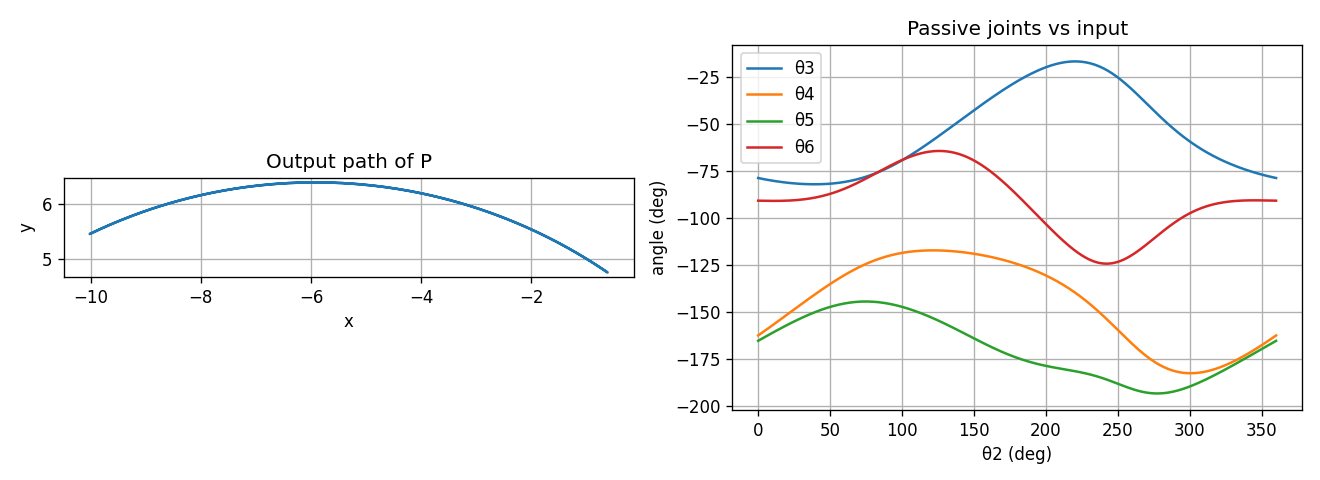
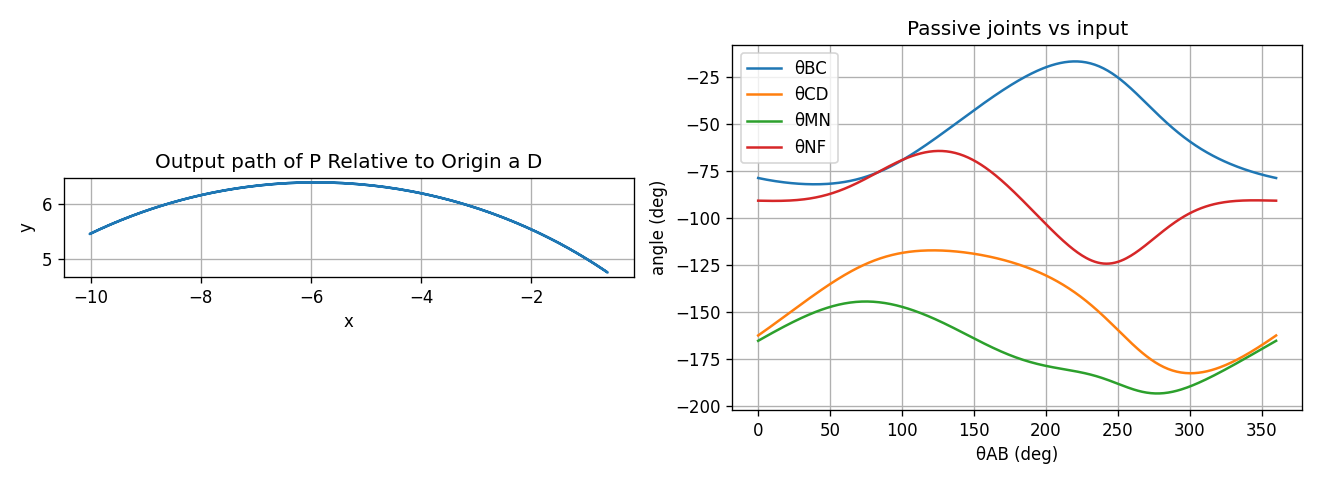
Updated figures

Changed region(s): [[0.1242, 0.3125, 0.4038, 0.375], [0.5902, 0.125, 0.6523, 0.3438], [0.7455, 0.9062, 0.8076, 0.9688]]

diff --git a/six-bar_one-dwell_IK.py b/six-bar_one-dwell_IK.py
@@ -93,60 +93,64 @@ def ik_from_P(P): #IK from an output point: convert P to th6, then solve
 
 #Main
 if __name__ == "__main__":
+    #The solver works in th6 internally; only inputs, prints and plots use th_FN.
+    to_FN = lambda t6_deg: t6_deg + 180 #th6 (deg) -> th_FN (deg); exact for this mechanism's range
+    to_th6 = lambda fn_deg: fn_deg - 180 #th_FN (deg) -> th6 (deg)
+ 
     #output range over the full crank rotation (from FK)
     th2s = np.radians(np.arange(0, 360, 0.1)) #build input vector
     th6s = np.array([fk(t)[0][3] for t in th2s]) #find output vector - targets outside this have no solution
-    lo, hi = th6s.min(), th6s.max() #find max/min
-    print(f"Reachable output range: th6 in [{np.degrees(lo):.2f}, {np.degrees(hi):.2f}] deg\n") #show reachable output range
-
+    lo, hi = th6s.min(), th6s.max() #find max/min (th6, rad)
+    lo_deg, hi_deg = to_FN(np.degrees(lo)), to_FN(np.degrees(hi)) #reachable range as th_FN in degrees
+    print(f"Reachable output range: th_FN in [{lo_deg:.2f}, {hi_deg:.2f}] deg\n") #show reachable output range
+ 
     #ask the user for a target output angle within the reachable range
-    lo_deg, hi_deg = np.degrees(lo), np.degrees(hi) #print valid range in degrees
     while True: #keep asking until the input is valid
         try:
-            th6_deg = float(input(f"Enter target output angle th6 ({lo_deg:.2f} to {hi_deg:.2f} deg): "))
-            if lo_deg - 0.005 <= th6_deg <= hi_deg + 0.005: #allow for the rounding in the printed range
+            fn_deg = float(input(f"Enter target output angle th_FN ({lo_deg:.2f} to {hi_deg:.2f} deg): "))
+            if lo_deg - 0.005 <= fn_deg <= hi_deg + 0.005: #allow for the rounding in the printed range
                 break
-            print(f"Error: {th6_deg:g} deg is outside the reachable range [{lo_deg:.2f}, {hi_deg:.2f}] deg. Try again.")
+            print(f"Error: {fn_deg:g} deg is outside the reachable range [{lo_deg:.2f}, {hi_deg:.2f}] deg. Try again.")
         except ValueError: #input wasn't a number
             print("Error: please enter a number.")
-    th6_user = np.clip(np.radians(th6_deg), lo, hi) #keep exactly within range after the rounding allowance
-    targets = {f"th6 = {th6_deg:g} deg (user input)": th6_user}
-
+    th6_user = np.clip(np.radians(to_th6(fn_deg)), lo, hi) #convert to th6 for the solver, kept exactly within range
+    targets = {f"th_FN = {fn_deg:g} deg (user input)": th6_user}
+ 
     for name, t6 in targets.items():
         sols = ik(t6) #solve ik
-        print(f"{name}:  th6 = {np.degrees(t6):.2f} deg  ->  {len(sols)} solution(s)") #print label, target, and num solutions
+        print(f"{name}:  ->  {len(sols)} solution(s)") #print label and num solutions
         for s in sols:
             qp, P = fk(s) #check FK of each solution
             err = np.degrees(abs(wrap(qp[3] - t6))) #FK output of this IK solution vs. the target
-            print(f"    th2 = {np.degrees(s):7.2f} deg   P = {P.round(3)}   |th6 error| = {err:.1e} deg") #print differences
+            print(f"    th_AB = {np.degrees(s):7.2f} deg   P = {P.round(3)}   |th_FN error| = {err:.1e} deg") #print differences
         print()
-
+ 
     #where 4 solutions exist: target values between the two small extremes inside the dwell
     grid6 = np.linspace(lo, hi, 2000)[1:-1] #target values across the range (endpoints dropped: 1 solution there)
     four = grid6[[len(ik(t, n_scan=1800)) == 4 for t in grid6]] #keep the targets that have 4 solutions
-    print(f"4 solutions for th6 in ~ [{np.degrees(four.min()):.2f}, {np.degrees(four.max()):.2f}] deg (inside the dwell); "
+    print(f"4 solutions for th_FN in ~ [{to_FN(np.degrees(four.min())):.2f}, {to_FN(np.degrees(four.max())):.2f}] deg (inside the dwell); "
           "2 everywhere else in the range\n")
-
-    #Plotting
+ 
+    #Plotting (all output angles shown as th_FN)
     fig, ax = plt.subplots(1, 2, figsize=(12, 4))
-    ax[0].plot(np.degrees(th2s), np.degrees(th6s), "k-", lw=1.5, label="θ6(θ2) from FK")
+    ax[0].plot(np.degrees(th2s), to_FN(np.degrees(th6s)), "k-", lw=1.5, label="θFN(θAB) from FK")
     t6 = th6_user #user target
     for s in ik(t6):
-        ax[0].plot(np.degrees(s), np.degrees(t6), "ro")
-    ax[0].axhline(np.degrees(t6), color="r", ls="--", lw=1, label=f"target θ6 = {th6_deg:g}°")
-    ax[0].set_xlabel("θ2 (deg)"); ax[0].set_ylabel("θ6 (deg)")
+        ax[0].plot(np.degrees(s), to_FN(np.degrees(t6)), "ro")
+    ax[0].axhline(to_FN(np.degrees(t6)), color="r", ls="--", lw=1, label=f"target θFN = {fn_deg:g}°")
+    ax[0].set_xlabel("θAB (deg)"); ax[0].set_ylabel("θFN (deg)")
     ax[0].set_title("IK = where the output curve meets the target"); ax[0].legend(); ax[0].grid()
-    #zoom on the dwell (th2 from -60 to 60 deg) with the 4-solution target
+    #zoom on the dwell (th_AB from -60 to 60 deg) with the 4-solution target
     zz = np.radians(np.arange(-60, 60.01, 0.1)) #dwell zoom range
-    ax[1].plot(np.degrees(zz), [np.degrees(fk(t)[0][3]) for t in zz], "k-", lw=1.5)
-    t6 = np.radians(-90.7) #fixed example inside the 4-solution band
+    ax[1].plot(np.degrees(zz), [to_FN(np.degrees(fk(t)[0][3])) for t in zz], "k-", lw=1.5)
+    t6 = np.radians(to_th6(89.3)) #fixed example inside the 4-solution band (th_FN = 89.3 deg)
     for s in ik(t6):
         if abs(wrap(s)) < np.radians(60): #the 4th solution (~184 deg) is off-panel
-            ax[1].plot(np.degrees(wrap(s)), np.degrees(t6), "ro")
-    ax[1].axhline(np.degrees(t6), color="r", ls="--", lw=1, label="target θ6 = -90.7°")
-    ax[1].set_xlabel("θ2 (deg, wrapped)")
-    ax[1].set_ylabel("θ6 (deg)")
-    ax[1].set_title("Dwell zoom: 3 of the 4 solutions (4th at θ2 ≈ 184°)")
+            ax[1].plot(np.degrees(wrap(s)), 89.3, "ro")
+    ax[1].axhline(89.3, color="r", ls="--", lw=1, label="target θFN = 89.3°")
+    ax[1].set_xlabel("θAB (deg, wrapped)")
+    ax[1].set_ylabel("θFN (deg)")
+    ax[1].set_title("Dwell zoom: 3 of the 4 solutions (4th at θAB ≈ 184°)")
     ax[1].legend()
     ax[1].grid()
     plt.tight_layout()

diff --git a/six-bar_one-dwell_closed-form_FK.py b/six-bar_one-dwell_closed-form_FK.py
@@ -96,12 +96,12 @@ if __name__ == "__main__":
     fig, ax = plt.subplots(1, 2, figsize=(11, 4))
     ax[0].plot(PS[:, 0], PS[:, 1])
     ax[0].set_aspect("equal")
-    ax[0].set_title("Output path of P")
+    ax[0].set_title("Output path of P Relative to Origin a D")
     ax[0].set_xlabel("x")
     ax[0].set_ylabel("y")
-    for i, name in enumerate(["θ3", "θ4", "θ5", "θ6"]):
+    for i, name in enumerate(["θBC", "θCD", "θMN", "θNF"]):
         ax[1].plot(np.degrees(th2s), np.degrees(QP[:, i]), label=name)
-    ax[1].set_xlabel("θ2 (deg)")
+    ax[1].set_xlabel("θAB (deg)")
     ax[1].set_ylabel("angle (deg)")
     ax[1].set_title("Passive joints vs input")
     ax[1].legend()
